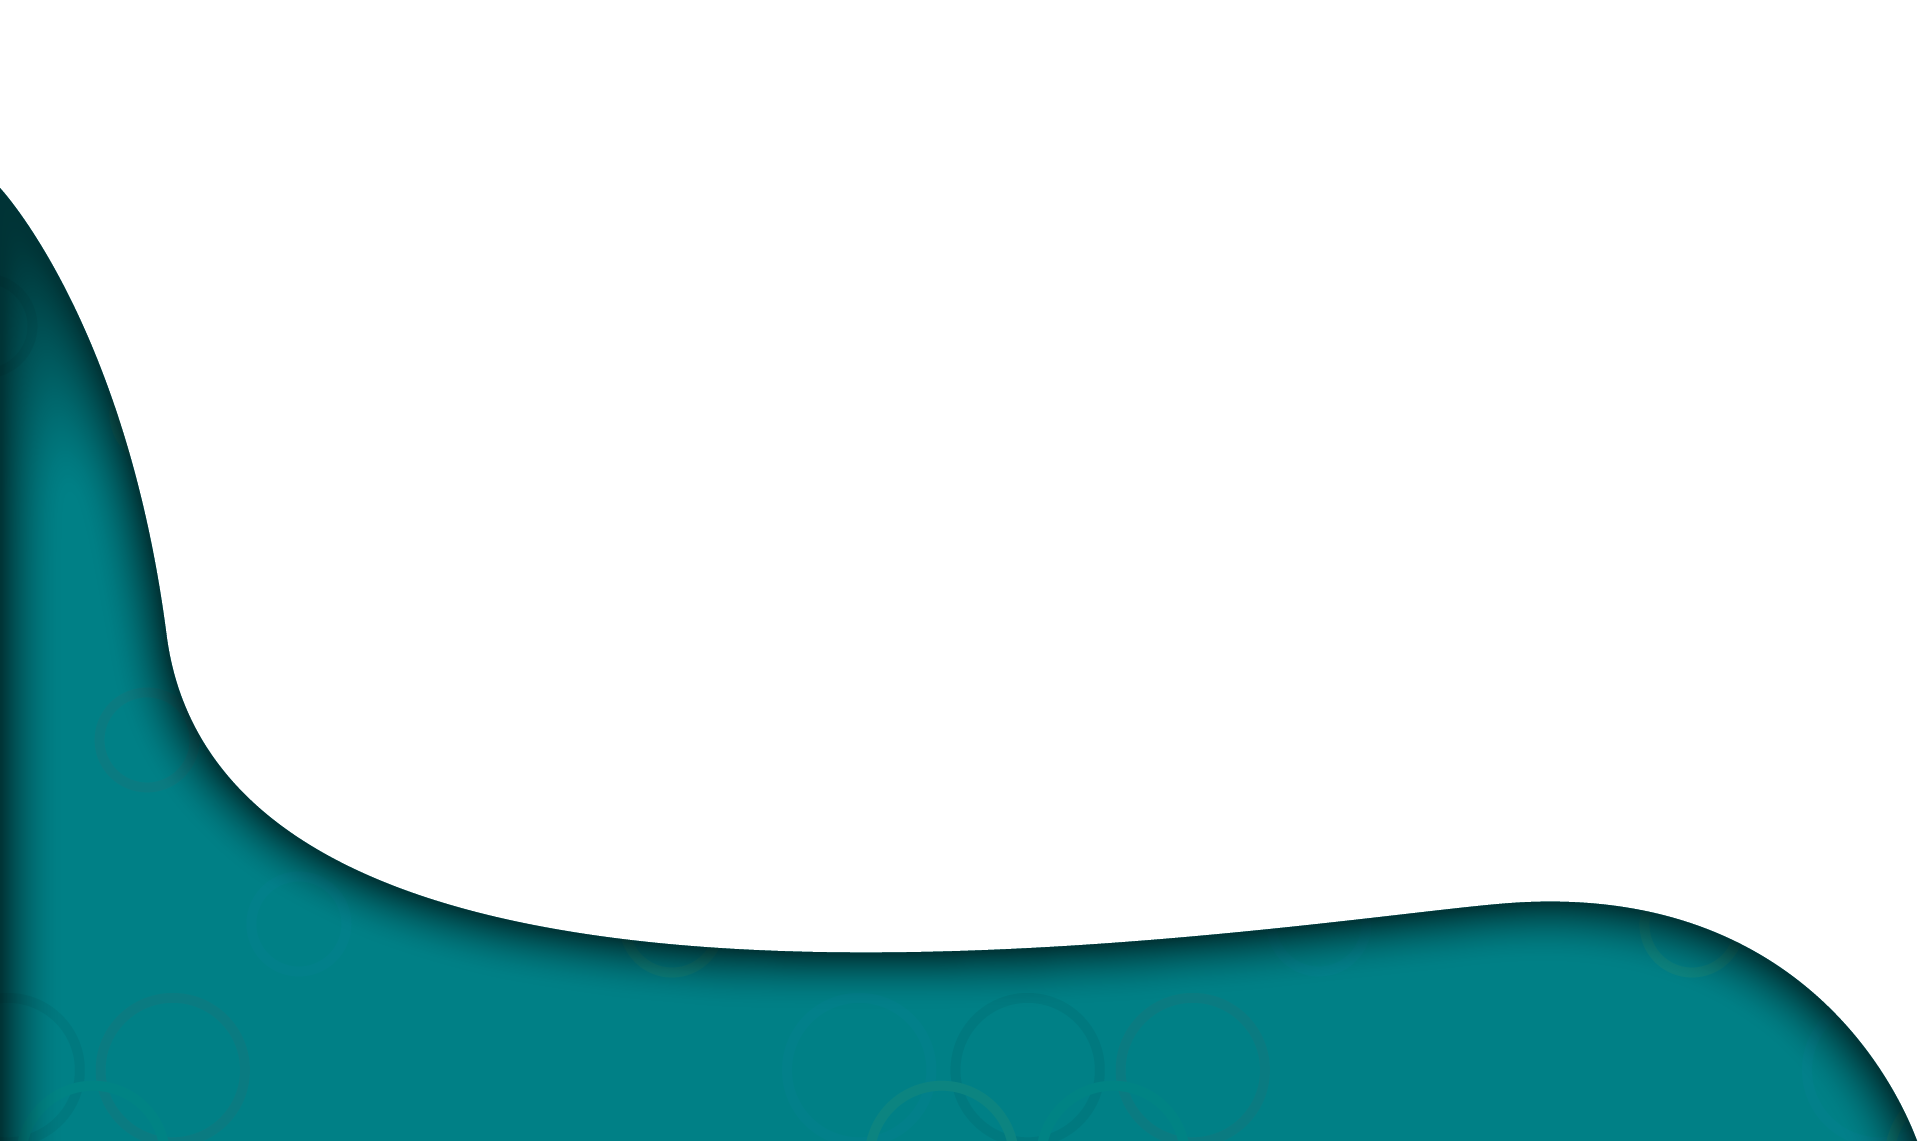
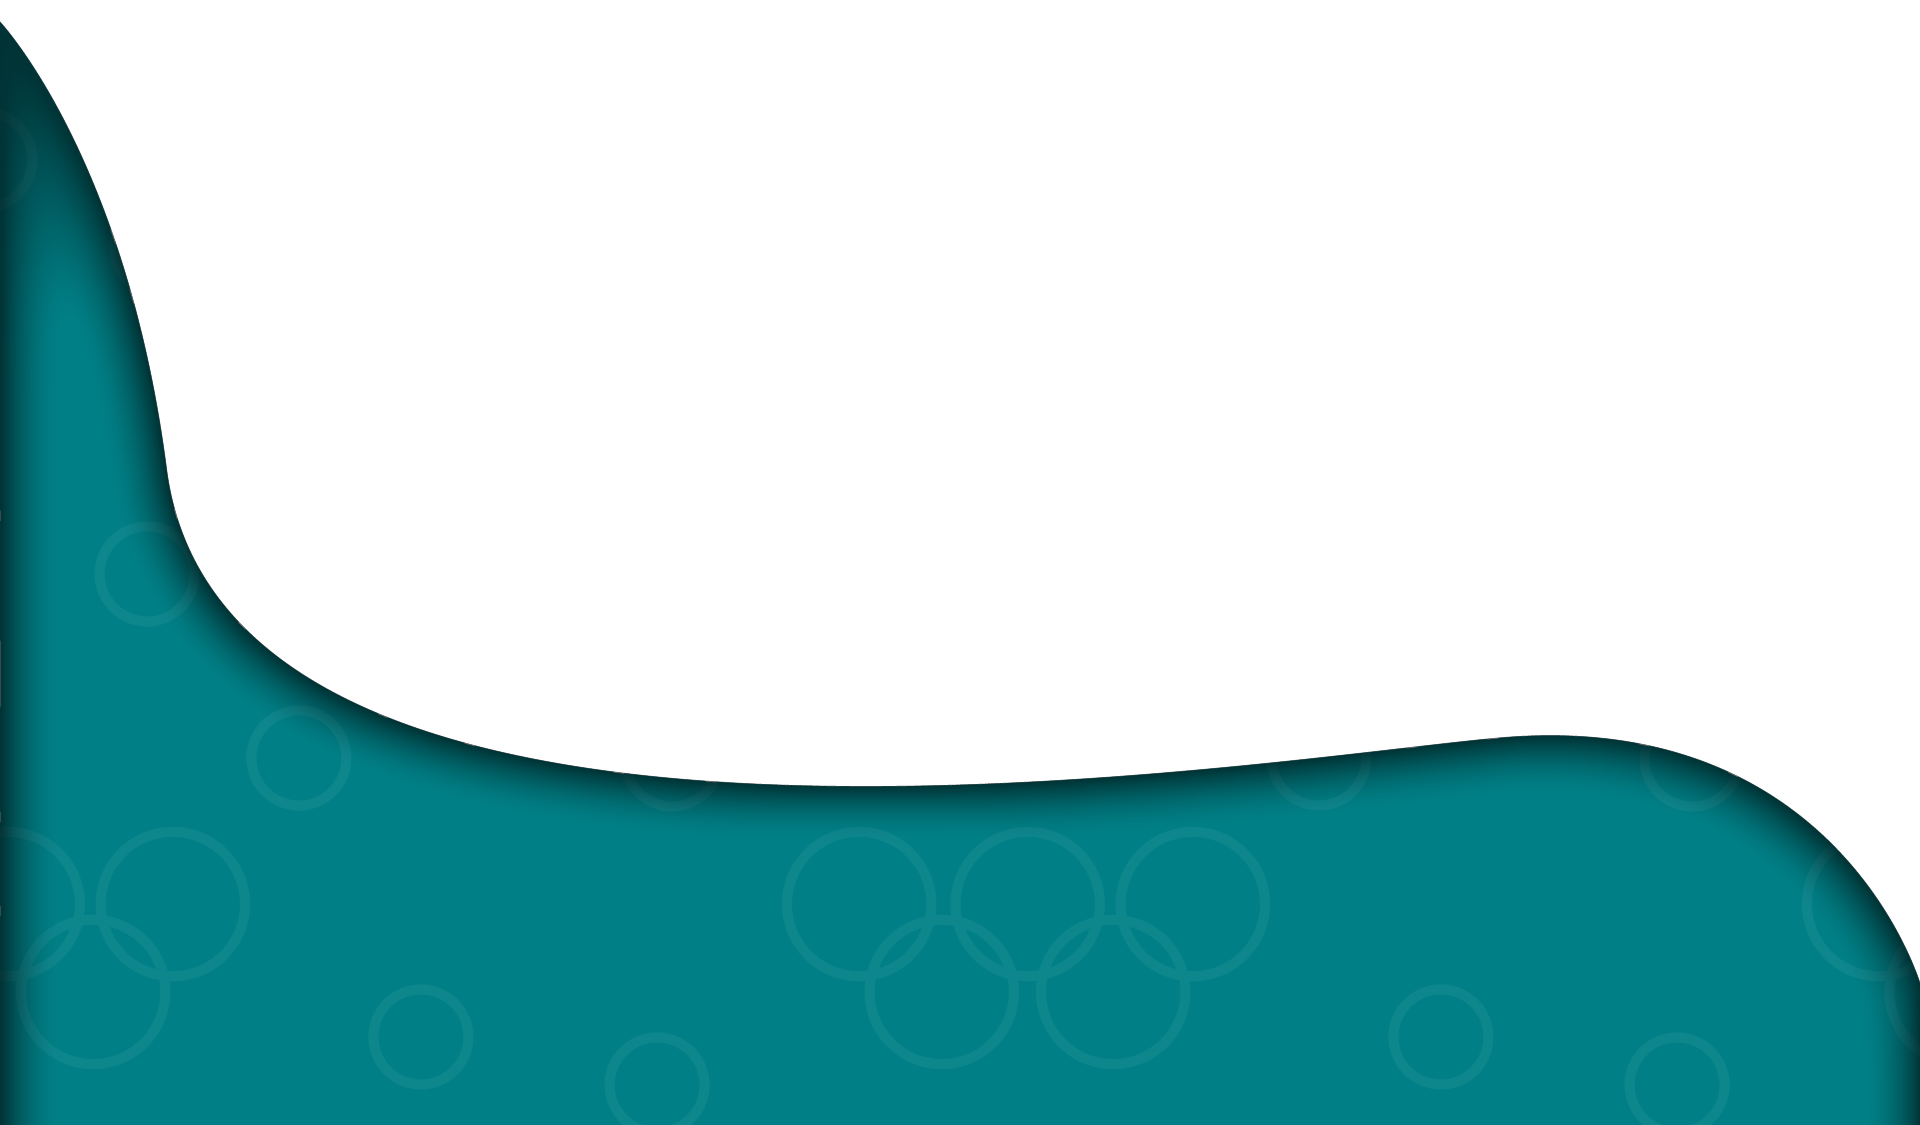
teste

Changed region(s): [[0.0, 0.0311, 1.0, 0.9956]]

diff --git a/conteudo.html b/conteudo.html
@@ -686,7 +686,7 @@
                                 <p>
                                     Assim sendo, a atividade de leitura conduz a infinitas possibilidades, por isso é um ato revolucionário. Por meio da leitura, são construídos os conhecimentos necessários para transformar a realidade e a sociedade em que se vive. A leitura modifica os pensamentos, amplia os horizontes e é um fator primordial no exercício da cidadania de cada um. Lembre-se de que quanto mais se lê, mais autonomia se tem para decidir sobre o futuro e, assim, ser protagonista de sua própria história. Nesse sentido, você é convidado para refletir a respeito das imagens a seguir. 
                                 </p>
-                                <figure>
+                                <figure  class="fig-fora">
                                     <div class="row">
                                         <div class="col">
                                             <img src="img/pg2/figura4-ing.png" class="img-fluid d-block m-auto" data-aos="zoom-in" alt="Dois quadrinhos idênticos, um com descrições em inglês e outro em português. Há o desenho de um livro vermelho em que cada página é descrita com as possibilidades que a leitura oferece. Quadro 1: personagem em frente ao livro, na parte superior do quadro, está descrito “mirrors”. Quadro 2: personagem sentada diante do livro que está aberto com o desenho de uma paisagem em seu interior. Na parte superior do quadro, está descrito “windows”. Quadro 3: o livro está aberto representando uma porta por onde a personagem passa e, na parte superior do quadro, está escrito “sliding glass doors”. Quadro 4: a personagem está saltando entre três livros que representam degraus e, na parte superior do quadro, está descrito “stepping stones”. Quadro 5: a personagem está “vestindo” o livro em uma paisagem que remete a um clima frio e, na parte superior do quadro, está descrito”overcoats”. Quadro 6: a personagem está agarrada ao livro em uma paisagem que representa a ação de um vento forte e, na parte superior, está descrito “anchors”. Quadro 7: a paisagem mostra a parte superior de alguns edifícios onde um deles tem o livro com as páginas abertas e a personagem no ar, na parte superior do quadro, está descrito “trampolins”. Quadro 8: a personagem está deitada dentro do livro e, na parte superior do quadro, está descrito “escape hatches”. Quadro 9: a personagem está de pé dentro do livro e, na parte superior do quadro, está descrito “quiet corners”. Quadro 10: a personagem está deitada em uma cama com o livro sobre seu corpo e, na parte superior do quadro, está descrito “warm blankets”. Quadro 11: a personagem está sobrevoando um rio em que aparece uma ponte ao longe e o livro representa um tapete voador, na parte superior do quadro, está descrito “flying carpets”. Quadro 12: a personagem está sentada no alto de um edifício com o seu livro em mãos e dele sai uma luz que ilumina a janela do edifício em frente com um menino olhando para ela, na parte superior do quadro, está descrito “beacons to new readers”. ">
@@ -709,7 +709,7 @@
                         </div>
                         <div class="bloco4-pg2">
                             <div class="container">
-                                <h4>O papel da leitura na construção do imaginário e da identidade </h4>
+                                <h4 class="titulo-fora">O papel da leitura na construção do imaginário e da identidade </h4>
                                 <p>Para ilustrar a importância das histórias na vivência de cada pessoa, será abordada a personagem Sherazade, de “As mil e uma noites”, você já conhece? Conta-se que, na antiga Pérsia, havia um poderoso Sultão que decidiu matar sua esposa ao descobrir que ela o havia traído. Além disso, ele determina que nunca mais será traído e resolve se vingar de todas as mulheres que ele puder. </p>
                                 <p>Para isso, o Sultão decide se casar com uma mulher diferente a cada noite para, na manhã seguinte, mandar executá-la. No entanto, a filha de um primeiro-ministro, chamada Sherazade, pede a seu pai que ele permita que ela se case com o Sultão e, embora o homem fique preocupado com sua filha, ele permite o casamento. </p>
                                 <p>O que acontece, a partir daí, é que Sherazade passa a contar histórias para o marido e, com isso, o Sultão permite que a esposa permaneça viva, para que ele possa ouvir outros de seus contos na noite seguinte. Nessa lenda persa, pode-se ver que as histórias foram capazes de salvar a vida de Sherazade. Fazendo um paralelo a isso, percebe-se o quanto as narrativas são importantes. Desde histórias ouvidas na infância até filmes e séries assistidos, tudo isso vai formando o pensamento. Nesse viés, uma das principais formas de conhecer diversas narrativas é a leitura. Com ela, se tem acesso a infinitos mundos, que construirão o imaginário e contribuirão para a formação da própria identidade. Veja um breve resumo de três diferentes histórias famosas das “Mil e uma noites”, clicando nos ícones a seguir. </p>
@@ -1997,6 +1997,7 @@ O termo “olimpismo” se refere ao conjunto de valores filosóficos e pedagóg
                         <div class="bloco4-pg3">
                             <img src="img/pg3/img7-esq.png" class="no-print relax-top9 rellax-esquerda-big" data-rellax-speed="2">
                             <img src="img/pg3/img6-dir.png" class="no-print relax-top3 rellax-direita-big" data-rellax-speed="2">
+                            <img src="img/pg2/pg3-bg2-inf.png" alt="">
                             <div class="container">
                                 <h4>E o Brasil? </h4>
                                 <p>

diff --git a/assets/css/custom.css b/assets/css/custom.css
@@ -355,13 +355,12 @@ div.box-atividade .f-positivo.text-success{
 }
 .boxC-modal figure{ 
     cursor: pointer;
-    transition: all 0.1s;
     width: 195px;
     height: 160px;
     background-size: 200%;
     position: relative;
 }
-.boxC-modal figure:hover{ opacity: 0.6; background-position-x: 192px;}
+.boxC-modal figure:hover{ background-position-x: 192px;}
 .boxC-modal figure img{ visibility: hidden;}
 
 .boxC-modal figure.btIcon1 {
@@ -691,6 +690,7 @@ h2 {
     position: relative;
     background-image: url('../../img/pg2/bg3-meio.png');
     background-size: 100%;
+    margin-top: -1px;
 }
 .bloco50-pg3, .bloco3-pg3, .pg1-bloco1{
     position: relative;
@@ -892,6 +892,12 @@ div.quadros > div> div > img{
 .btn-sesc, .btn-sesc-image {
     border: 2px solid rgb(0, 131, 141) !important;
 }
+.fig-fora {
+    margin-bottom: 200px;
+}
+.titulo-fora{
+    margin-top: -200px;
+}
 @media (max-width: 1680px) {
     
     #bloco-bg-slider{
@@ -909,6 +915,13 @@ div.quadros > div> div > img{
    
 }
 @media (max-width: 1280px) {
+    
+.fig-fora {
+    margin-bottom: 50px;
+}
+.titulo-fora{
+    margin-top: -50px;
+}
     .rellax-direita-big{
         display: none;
     }
